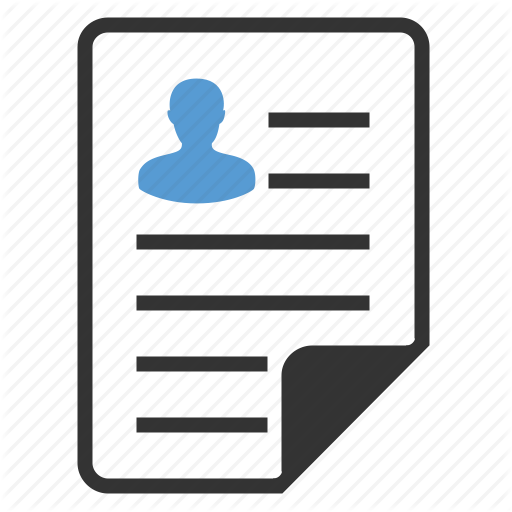
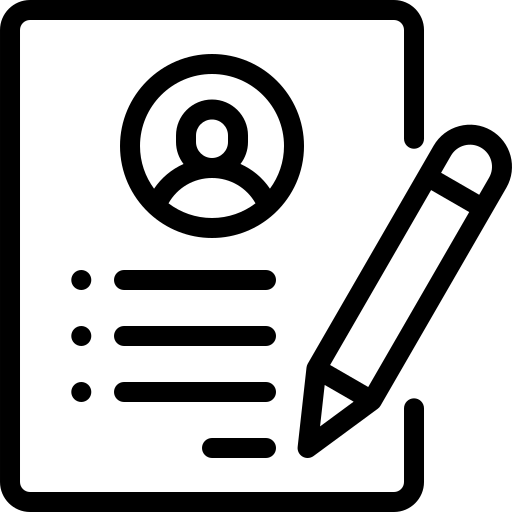
Links section complete.

diff --git a/new-index.html b/new-index.html
@@ -26,34 +26,46 @@
                     </p>
                 </div>
                 <div class="four columns">
-                    <img src="icons/dp.jpg" alt="" class="profile-pic">
+                    <img src="icons/dp3.png" alt="" class="profile-pic">
                 </div>
 
             </div>
         </div>
+
+        
     </section>
     
     <section class="section links">
-        <div class="container">
+        <div class="container" id="links">
             <div class="row">
                 <div class="one-third column">
-                    <i class="fa fa-users"></i>
-                    <h5>Manage Users</h5>
+                    <a href="https://www.linkedin.com/in/anthony-lai-rh/">
+                        <img id="linkedin-logo" src="icons/linkedin3.png"></img>
+                    </a>
+                    <h5>LinkedIn</h5>
                 </div>
                 
                 <div class="one-third column">
-                    <i class="fa fa-cv"></i>
+                    <a href="">
+                        <img id="resume-logo" src="icons/resume2.png"></img>
+                    </a>
                     <h5>Resume</h5>
                 </div>
 
                 <div class="one-third column">
-                    <i class="fa fa-github"></i>
+                    <a href="https://github.com/AnthonyLaiRH">
+                        <img id="github-logo" src="icons/github.png"></img>
+                    </a>
                     <h5>Github</h5>
                 </div>
             </div>
         </div>
     </section>
 
+    <section class="section aboutMe">
+                
+
+    </section>
     </body>
 
 </html>

diff --git a/new-style.css b/new-style.css
@@ -11,13 +11,21 @@
     text-align: left;
 }
 
+#links{
+    text-align: center;
+}
+
 .profile-pic{
     margin: 30px 0px 100px 110px;
-    border-radius: 50px;
+    border-radius: 150px;
     width: 100%;
     height: 100%;
 }
 
+#links img{
+    width: 60px;
+    height: 60px;
+}
 .fa{
     width: 150%;
     height: 150%;
